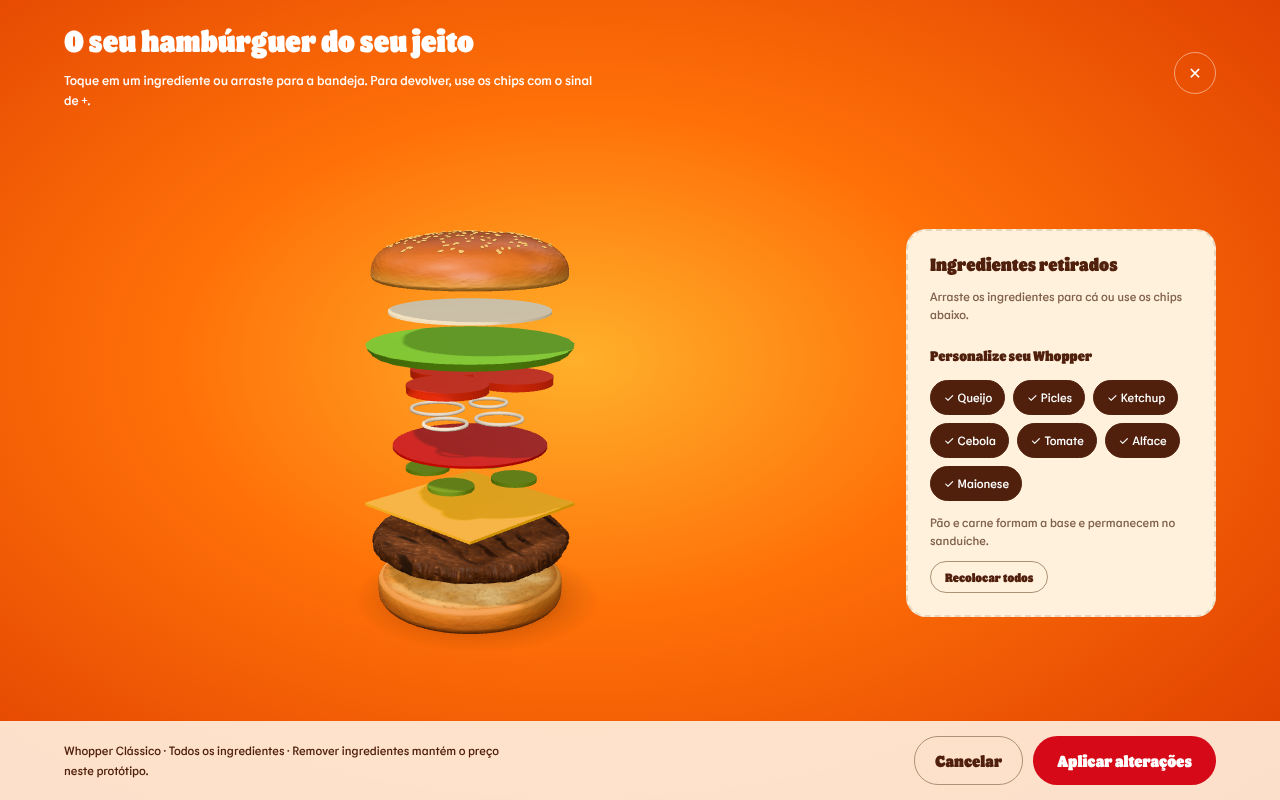
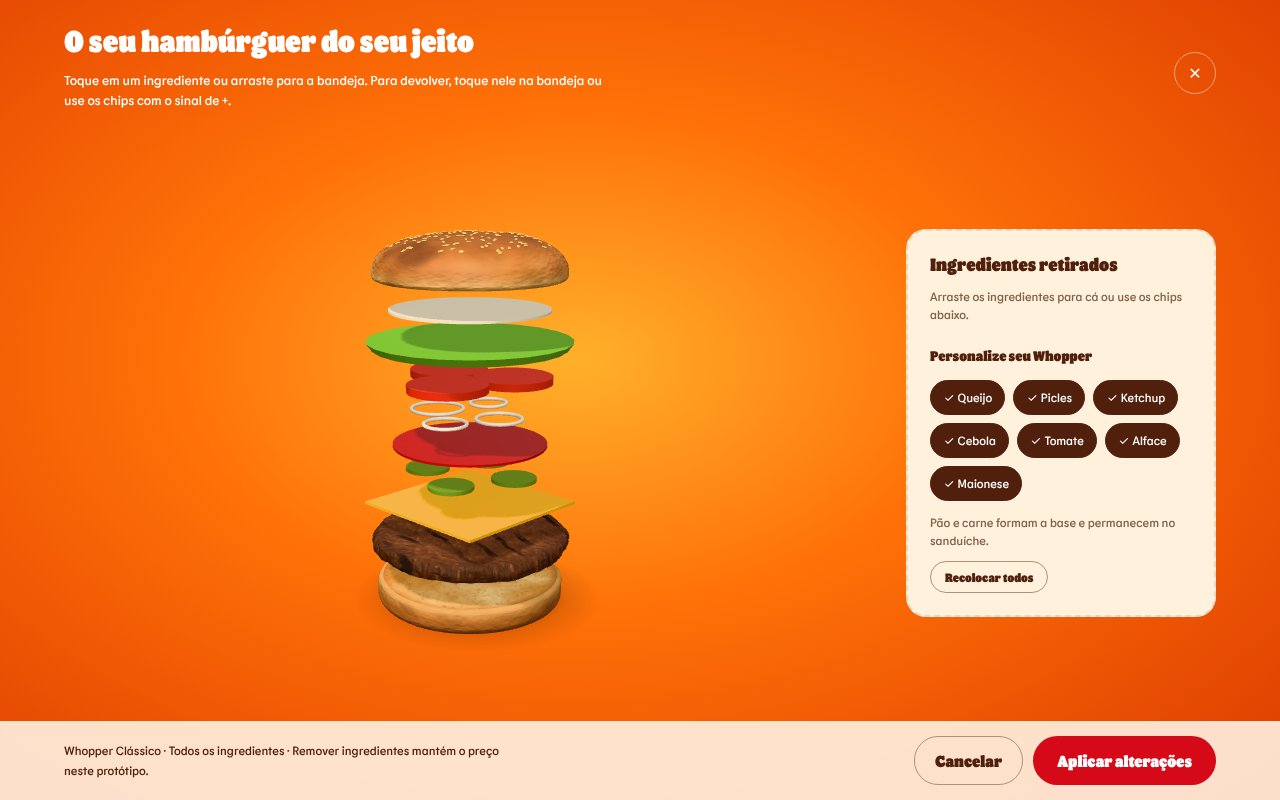
docs: ticket 05 review round 1, bun adjustments and new captures
Claude-Session: https://claude.ai/code/session_01BePabxGHezmjgpSn9Qa3EW

diff --git a/.scratch/hamburguer-3d/issues/05-revisao-paes-e-carne.md b/.scratch/hamburguer-3d/issues/05-revisao-paes-e-carne.md
@@ -6,6 +6,23 @@
 
 **Status:** ready-for-human
 
-- [ ] Revisar no navegador e nas capturas do ticket 04
-- [ ] Registrar decisão em `## Comments`: aprovado, ou lista de ajustes
-- [ ] Se houver ajustes, aplicá-los em 04 antes de liberar 06 e 07
+- [x] Revisar no navegador e nas capturas do ticket 04
+- [x] Registrar decisão em `## Comments`: aprovado, ou lista de ajustes
+- [x] Se houver ajustes, aplicá-los em 04 antes de liberar 06 e 07
+
+## Comments
+
+### Rodada 1 (2026-10-08)
+
+Decisão do responsável pelo produto: carne aprovada; ajustar os dois pães antes de liberar 06 e 07.
+
+- Pão superior: casca uniforme e lisa demais, com cara de plástico. Falta variação de tostado nas laterais e um brilho mais fosco.
+- Pão inferior: lateral laranja e lisa demais, distante da foto de referência.
+
+Ajustes aplicados em `prototype/src/scene/layer-models.js`:
+
+- Pão superior: tostado irregular em manchas largas (mais fortes nas laterais e no topo), faixa clara junto ao corte, pontilhado fino; cores menos saturadas, puxando para o dourado-marrom; pequenas covinhas na geometria; pincelado reduzido (`clearcoat` 0,55 → 0,3, mais áspero) e relevo da casca mais marcado.
+- Pão inferior: base mais escura, lateral dourada com manchas de tostado e parede levemente irregular; quase sem brilho (`clearcoat` 0,25 → 0,1, rugosidade 0,78).
+- Correção encontrada na revisão: desde o ticket 09, a cena zerava a rotação própria dos modelos, e o queijo tinha deixado de aparecer em losango. Agora cada camada fica dentro de um grupo próprio, e a cena só mexe nesse grupo.
+
+Capturas atualizadas em `.scratch/hamburguer-3d/capturas/04/` (as anteriores ficam no histórico do Git). Aguardando a rodada 2 da revisão.
